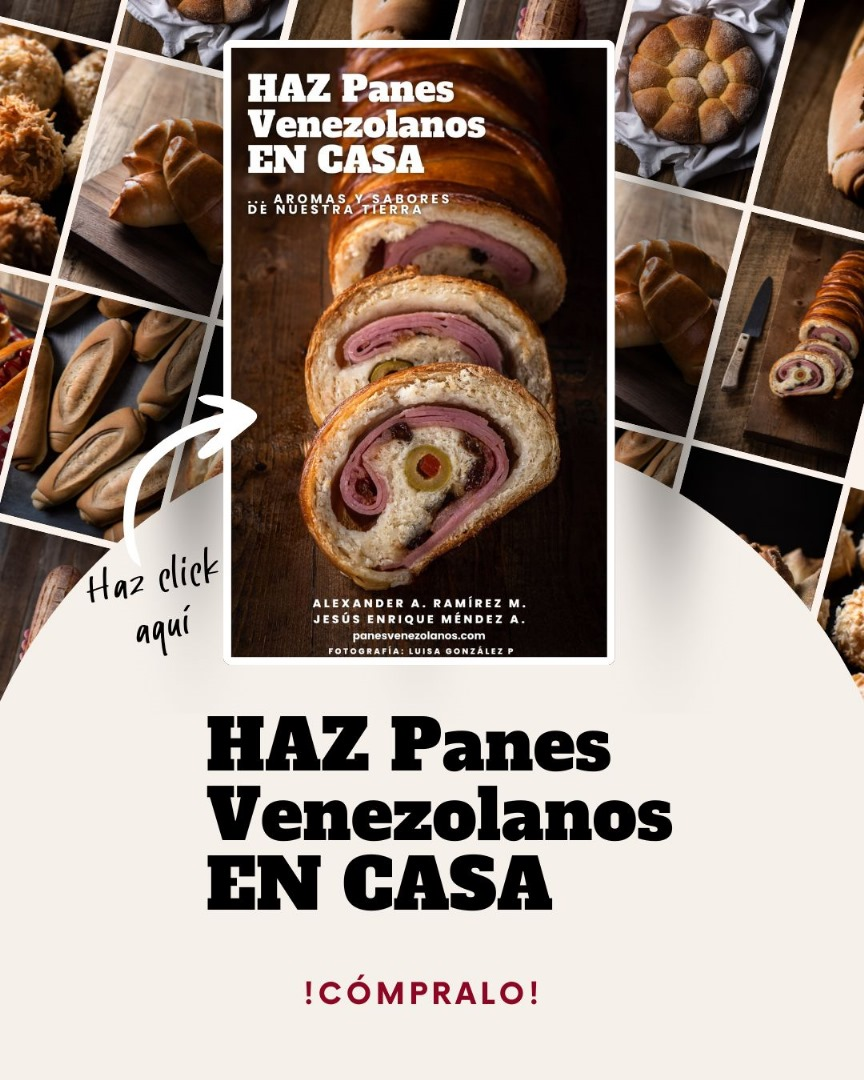
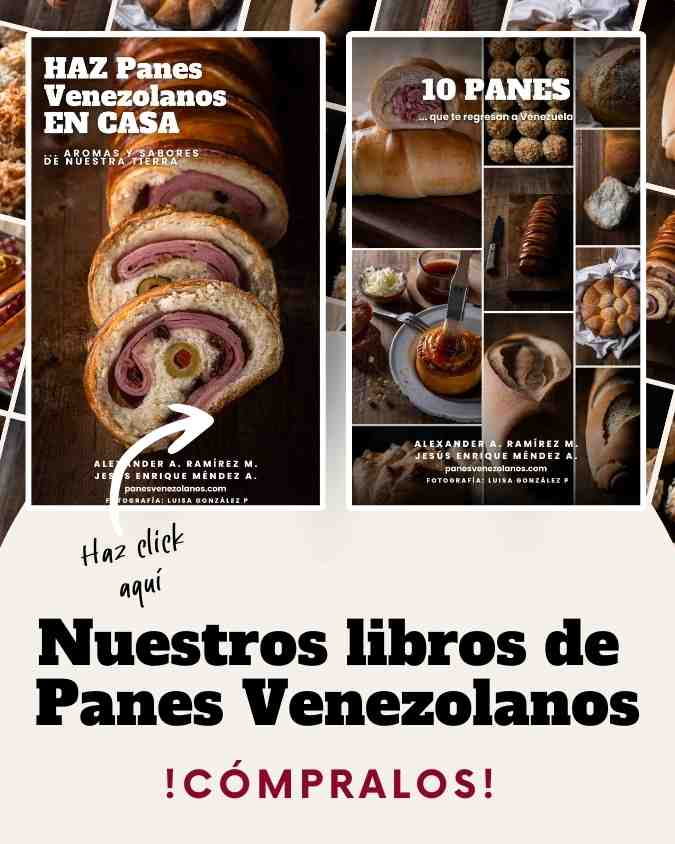
Libros en posts

diff --git a/_includes/book.html b/_includes/book.html
@@ -1,5 +1,5 @@
 <div class="image-wrap">
-    <a target="_blank" href="https://leanpub.com/hazpanesvenezolanosencasavol1" class="reset-a">
-        <img src="/images/HazPanesVenezolanosEnCasa-cover-pages.jpg" class="post_image post_image_right" alt="...">
+    <a target="_blank" href="https://panesvenezolanos.com/libros/" class="reset-a">
+        <img src="/images/HazPanesVenezolanosEnCasa-cover-pages.jpg" class="post_image post_image_right" alt="Libros">
     </a>
 </div>
